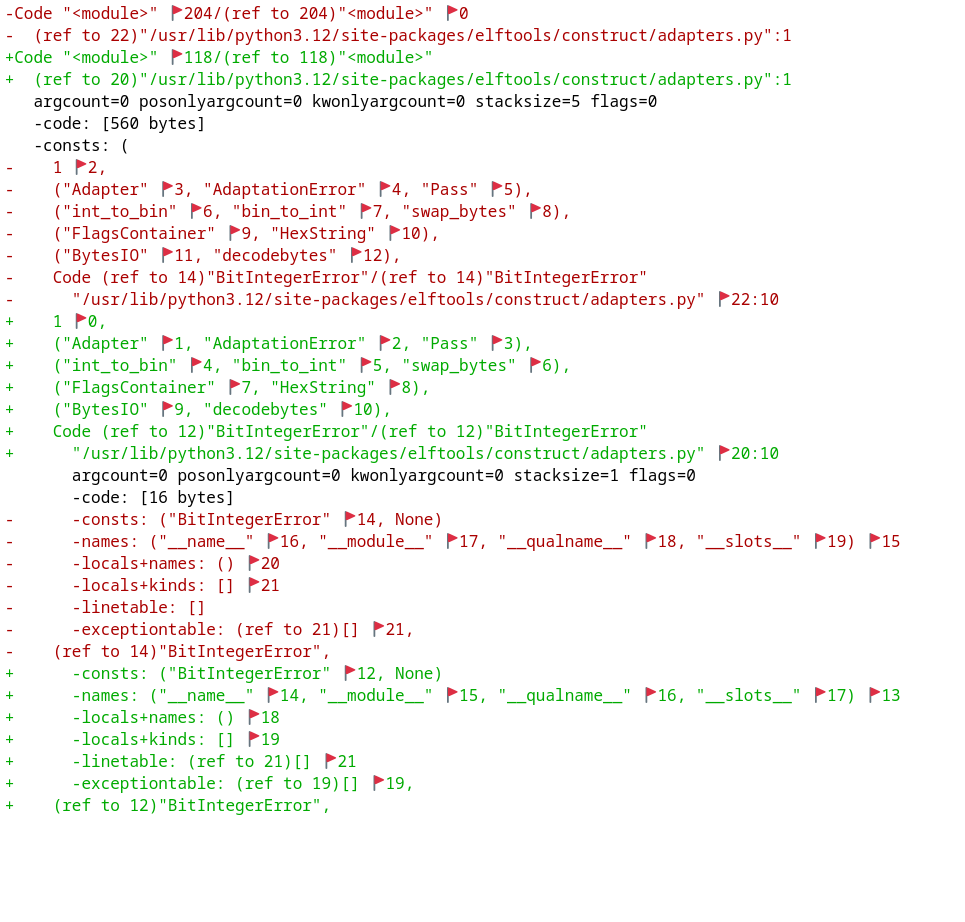
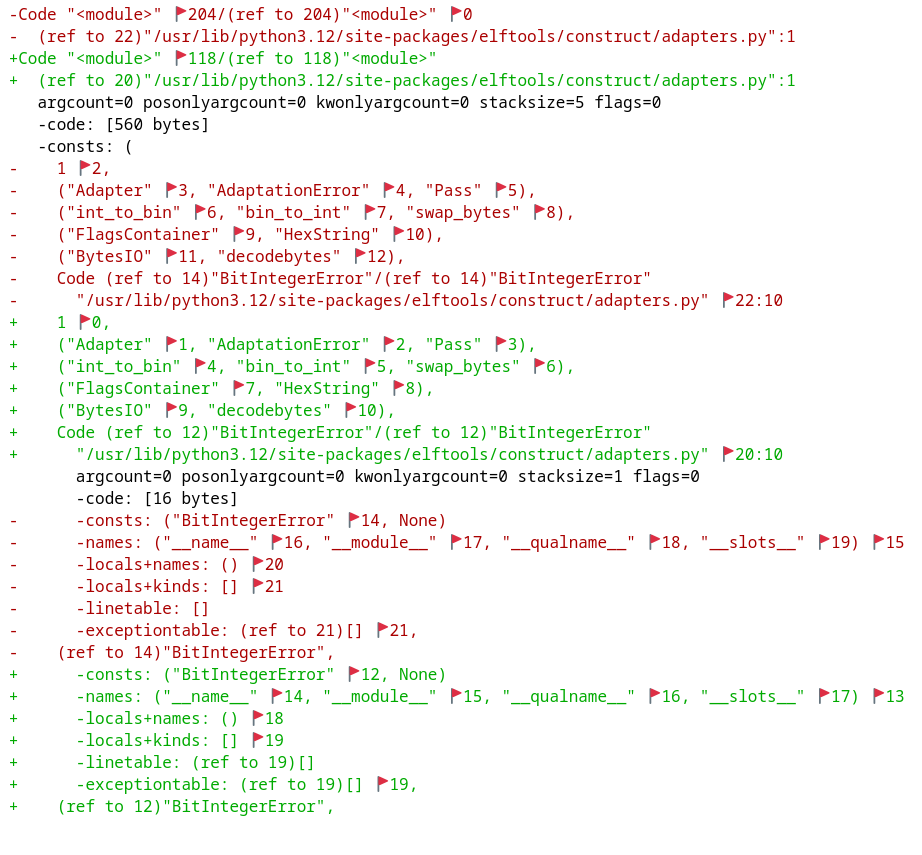
Tweaks

diff --git a/pyc-diff.html b/pyc-diff.html
@@ -17,8 +17,8 @@
 </head>
 <body class="body_foreground body_background" style="font-size: normal;" >
 <pre class="ansi2html-content">
-<span class="ansi1 ansi37">--- /proc/self/fd/11	2025-01-26 10:56:08.211543797 +0100</span>
-<span class="ansi1 ansi37">+++ /proc/self/fd/13	2025-01-26 10:56:08.217543813 +0100</span>
+<span class="ansi1 ansi37">--- /proc/self/fd/11	2025-01-26 14:56:25.534073432 +0100</span>
+<span class="ansi1 ansi37">+++ /proc/self/fd/13	2025-01-26 14:56:25.541073460 +0100</span>
 <span class="ansi36">@@ -1,21 +1,21 @@</span>
 <span class="ansi31">-Code "&lt;module&gt;" 🚩204/(ref to 204)"&lt;module&gt;" 🚩0</span>
 <span class="ansi31">-  (ref to 22)"/usr/lib/python3.12/site-packages/elftools/construct/adapters.py":1</span>
@@ -54,7 +54,7 @@
 <span class="ansi32">+      -names: ("__name__" 🚩14, "__module__" 🚩15, "__qualname__" 🚩16, "__slots__" 🚩17) 🚩13</span>
 <span class="ansi32">+      -locals+names: () 🚩18</span>
 <span class="ansi32">+      -locals+kinds: [] 🚩19</span>
-<span class="ansi32">+      -linetable: (ref to 21)[] 🚩21</span>
+<span class="ansi32">+      -linetable: (ref to 19)[]</span>
 <span class="ansi32">+      -exceptiontable: (ref to 19)[] 🚩19,</span>
 <span class="ansi32">+    (ref to 12)"BitIntegerError",</span>
 

diff --git a/rewriting-pyc-files.tex b/rewriting-pyc-files.tex
@@ -9,6 +9,11 @@
 \usepackage{ccicons}
 \usepackage{ulem}
 
+\hypersetup{
+  colorlinks=true,
+  linkcolor=blue,
+}
+
 \usepackage{tikz}
 \usetikzlibrary{arrows,shapes,snakes,automata,backgrounds,petri}
 
@@ -71,11 +76,13 @@
 \begin{frame}
   \frametitle{What is build reproducibility?}
 
+  \pause
+
   > \textit{A build is reproducible if given the same source code, build
   environment and build instructions, any party can recreate
   bit-by-bit identical copies of all specified artifacts.}
   
-  \hfill – reproducible-builds.org
+  \hfill – \href{https://reproducible-builds.org/docs/definition/}{reproducible-builds.org}
 
   \vfill
   \pause
@@ -90,29 +97,26 @@
 \begin{frame}
   \frametitle{How do we achieve build reproducibility?}
 
+  \pause
+
   \begin{itemize}
   \item packages are built in a container with no network access
   \item dependencies are installed as packages
-  \item build process must be fully determininistic
-  \item build products use fixed time (\texttt{\$SOURCE\_DATE\_EPOCH})
+  \item build process must be determininistic
+  \item operation independent of the environment (e.g. time clamped to \texttt{\$SOURCE\_DATE\_EPOCH})
   \end{itemize}
 
   \vfill
   \pause
 
-  If a build is not reproducible:
-  \begin{itemize}
-  \item most often → an issue in the package
-  \item sometimes → problem with a tool, for example \texttt{sphinx-build} does not look at \texttt{\$SOURCE\_DATE\_EPOCH}
-  \item rarely → we apply a post-build cleanup
-  \end{itemize}
+  To solve issues that cannot be resolved by changing individual packages
+  or tools, we apply a post-build cleanup…
 \end{frame}
 
 \begin{frame}[fragile]
   \frametitle{How do we achieve build reproducibility?}
   \framesubtitle{post-build cleanups}
 
-  \vfill
   \pause
 
   Debian has \href{https://packages.debian.org/sid/dh-strip-nondeterminism}{\texttt{strip-nondeterminism}}\\
@@ -123,17 +127,6 @@
 
   \texttt{add-determinism} runs after the install phase of the package build
 
-  \vfill
-
-  \begin{itemize}
-    \item \texttt{*.zip}, \texttt{*.jar}, and \texttt{*.a} archives
-    \item javadoc \texttt{*.html}
-    \item python \texttt{*.pyc} files
-  \end{itemize}
-
-  \vfill
-  \pause
-  
   {\tiny
   \begin{minted}{text}
 + /usr/bin/add-determinism --brp -j2 /builddir/build/BUILD/python-tables-3.10.1-build/BUILDROOT    
@@ -148,6 +141,15 @@ Scanned 36 directories and 362 files,
                0 unsupported format, 0 errors
   \end{minted}
   }
+
+  \vfill
+  \pause
+
+  \begin{itemize}
+  \item \sout{ownership and mtimes in \texttt{*.zip}, \texttt{*.jar}, and \texttt{*.a} archives}
+  \item \sout{timestamps in javadoc \texttt{*.html}}
+  \item python \texttt{*.pyc} files
+  \end{itemize}
 \end{frame}
 
 \begin{frame}
@@ -171,7 +173,8 @@ Scanned 36 directories and 362 files,
   \begin{itemize}
   \item CPython will (attempt to) write .pyc files every time\\
     it loads a .py file
-  \item Fedora packages include .pyc files for speed
+  \item writing may fail
+  \item Fedora packages include .pyc files for speed and reliability 
   \end{itemize}
 
   \vfill
@@ -196,8 +199,8 @@ Scanned 36 directories and 362 files,
   a Python integer: ['l' SIZE4 SIZE3 SIZE2 SIZE1\\
     \phantom{x} \hfill DIGIT1\_4 DIGIT1\_3 DIGIT1\_2 DIGIT1\_1\phantom{]}\\
     \phantom{x} \hfill … DIGITn\_1] \\\pause
-  an ASCII string: ['z'/'Z' SIZE CHAR1 … CHARn]\\\pause
-  other string: ['s'/'t'/'u'/'a'/'A' SIZE4 … SIZE1 CHAR1 ... CHARn]\\\pause
+  normal string: ['s'/'t'/'u'/'a'/'A' SIZE4 … SIZE1 CHAR1 ... CHARn]\hspace*{-1em}\\\pause
+  short ASCII string: ['z'/'Z' SIZE CHAR1 … CHARn]\\\pause
   special Python stuff: ['N'/'F'/'T'/'.'/'S']
 \end{frame}
 
@@ -214,44 +217,40 @@ Scanned 36 directories and 362 files,
   dicts: ['\{' [key] [value] ...[key] [value] '0']\\\pause
 
   New in Python 3.14 — slice objects: [':' [start] [stop] [step]]
-  \\\pause
+\end{frame}
+
+\begin{frame}
+  \frametitle{pyc contents}
+  \framesubtitle{very complex objects}
+
+  \pause
 
   code object: ['c' [ARGCOUNT] [POSONLYARGCOUNT] [KWONLYARGCOUNT] … [FLAGS] [code] [consts] [names] … [filename] [name] [qualname] …]
   \\\pause
 
-  reference: [r' BYTE4 … BYTE1]
-\end{frame}
-
-\begin{frame}
-  \frametitle{reference objects}
-
-  \hfill
-
-  [HEADER] [object1] [object\flag] [object3] [object4\flag] … \\{}
-  ...\\\pause
-  {}[REF 0] ... [object] ... [REF 1]
-
-  \vfill
-  \pause
-
-  \begin{itemize}
-  \item Only objects with \flag{} can be referenced
-  \item Objects may be flagged without being referenced
-  \item Not all objects have to replaced by references
-  \item Many different equivalent serializations
-  \end{itemize}
-\end{frame}
-
-\begin{frame}
-  \frametitle{pyc files}
-  \framesubtitle{\textit{ctd.}}
-
-  \pause
-
+  the whole pyc file:\\{}
   [VERSION1 VERSION2 MAGIC1 MAGIC2 4–12 byte header]\\
   \only<2>{[object1] [object2] … [object…]}%
   \only<3>{[code]}%
   \uncover<4->{[code [string1] [string2] ... [list ...]]}
+\end{frame}
+
+
+
+\begin{frame}
+  \frametitle{pyc contents}
+  \framesubtitle{reference objects}
+
+  \pause
+
+  reference: ['r' BYTE4 … BYTE1]
+
+  \vfill
+  \pause
+
+  [HEADER] [object1] [object2 \flag] [object3] [object4 \flag] … \\{}
+  ...\\\pause
+  {}[REF 0] ... [object] ... [REF 1]
 \end{frame}
 
 \begin{frame}
@@ -262,11 +261,18 @@ Scanned 36 directories and 362 files,
   \frametitle{Irreproducibilities observed}
 
   \begin{itemize}
-    \pause
-  \item Object may be flagged without being referenced\\
+  \pause
+  \item Only objects with \flag{} can be referenced
+
+  \pause
+  \item Objects may be flagged without being referenced\\
     → ``unused flags''
-    \pause
-  \item Not all objects are replaced by references
+
+  \pause
+  \item Not all objects have to replaced by references
+
+  \pause
+  \item Many different equivalent serializations
   \end{itemize}
 
   \vfill
